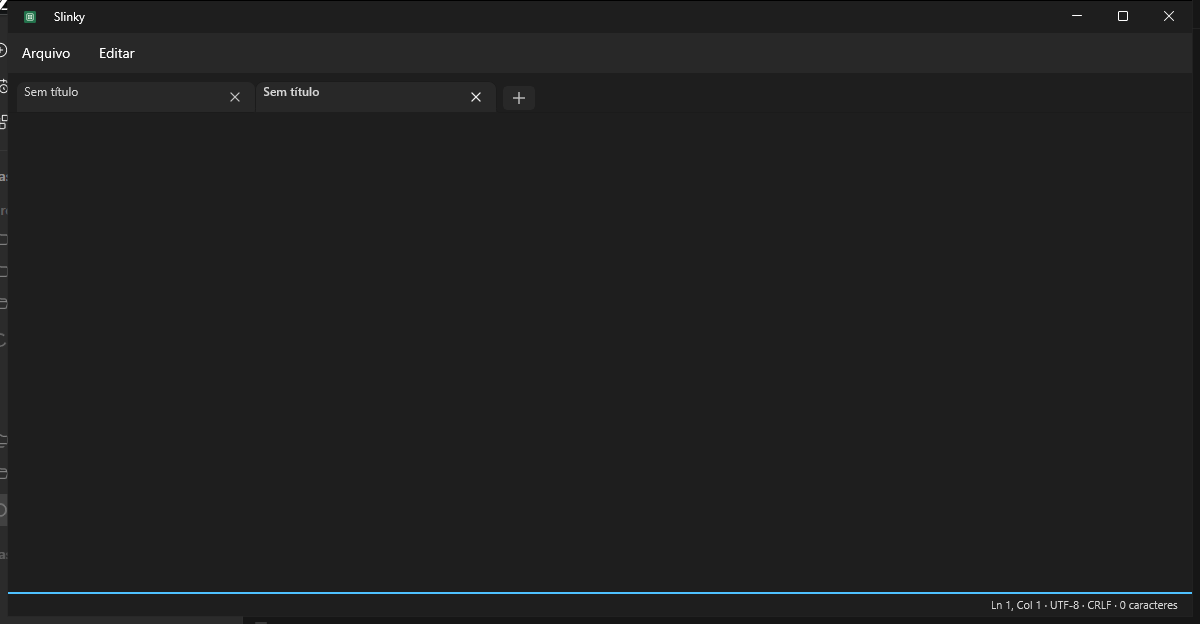
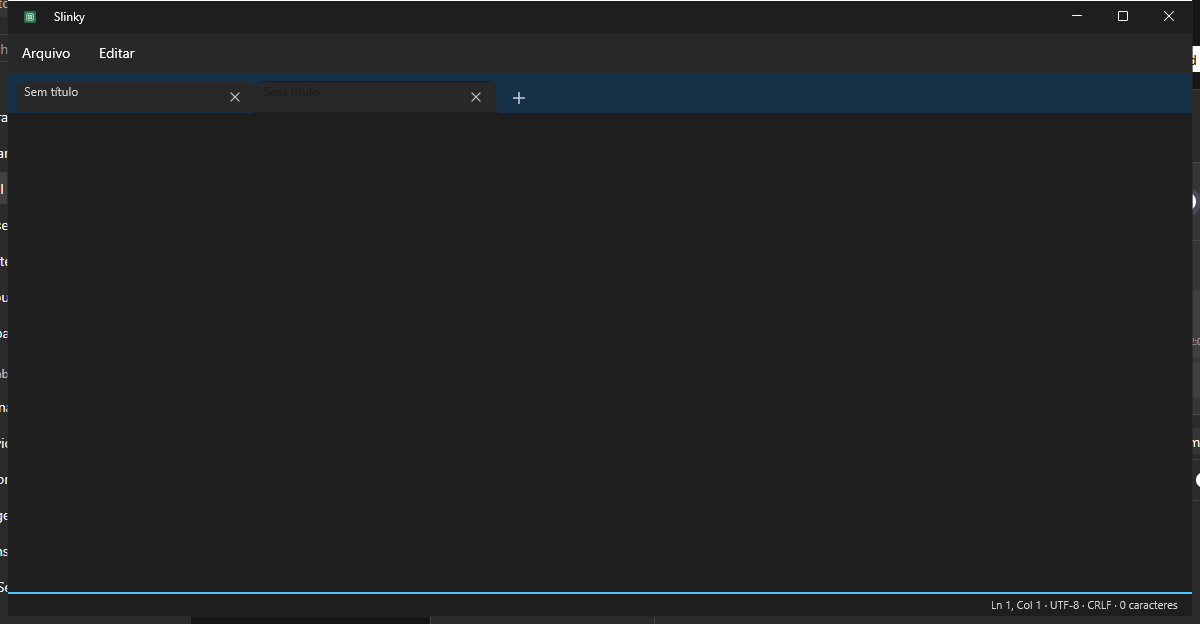
test: theme-switch-plus validates tab font color per theme
Adds CorTextoAba/ForegroundEsperada (text color extraction excluding the
surface, compared against ThemePalette per theme) to the exact reported
user sequence (clear -> Azulado -> Dark -> new tab -> hovers), photos
committed, plus the smoke-e2e PhotosDir path fix and automation README
corrections from the vistoria.

diff --git a/Tests/automation/README.md b/Tests/automation/README.md
@@ -41,6 +41,3 @@ nativos não expõem campos via UIA e a ordem da árvore varia. O fluxo de recov
 em si está validado por diagnósticos controlados e pelos testes de integração
 (`Slinky.IntegrationTests`), que executam os mesmos serviços de forma
 determinística contra pasta real isolada.
-| `run-all.ps1` | Comando único: testes headless + smoke E2E |
-
-Uso: `powershell -ExecutionPolicy Bypass -File Tests\automation\run-all.ps1`
